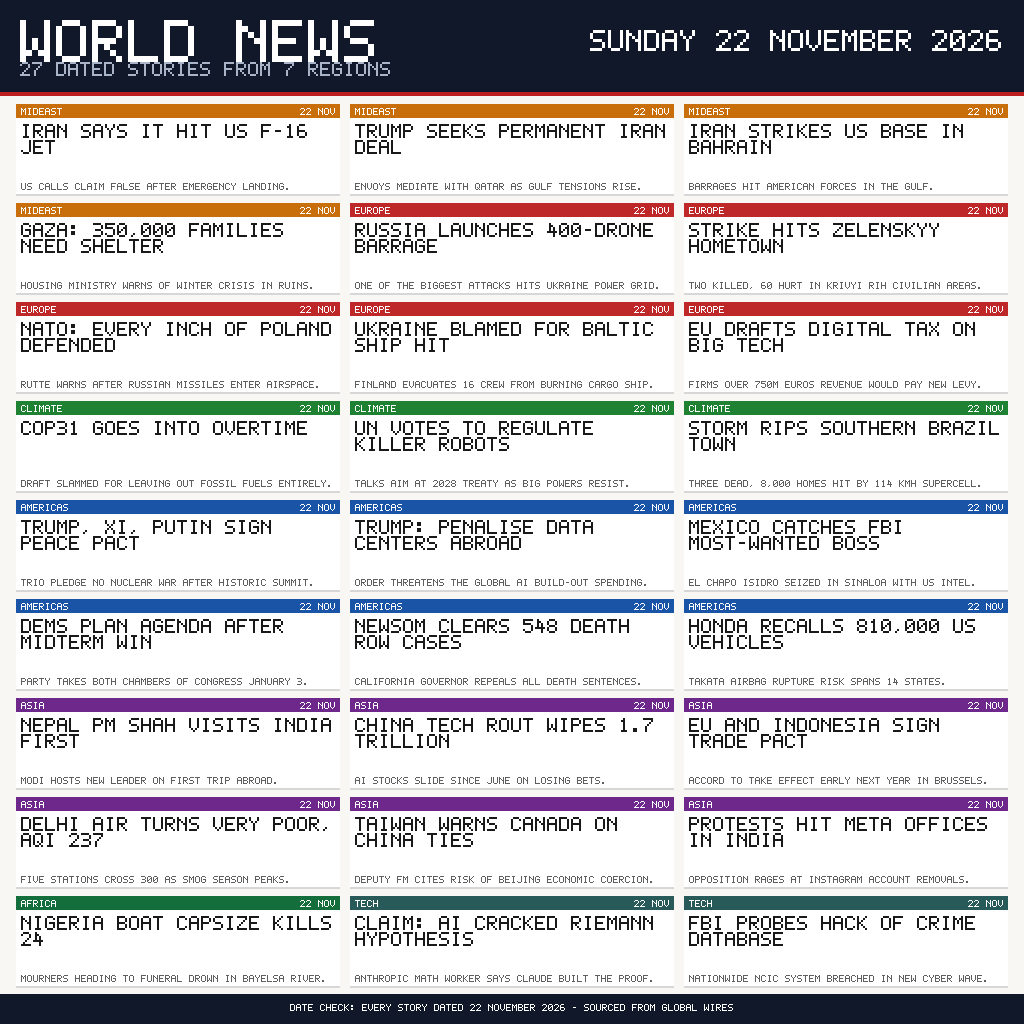
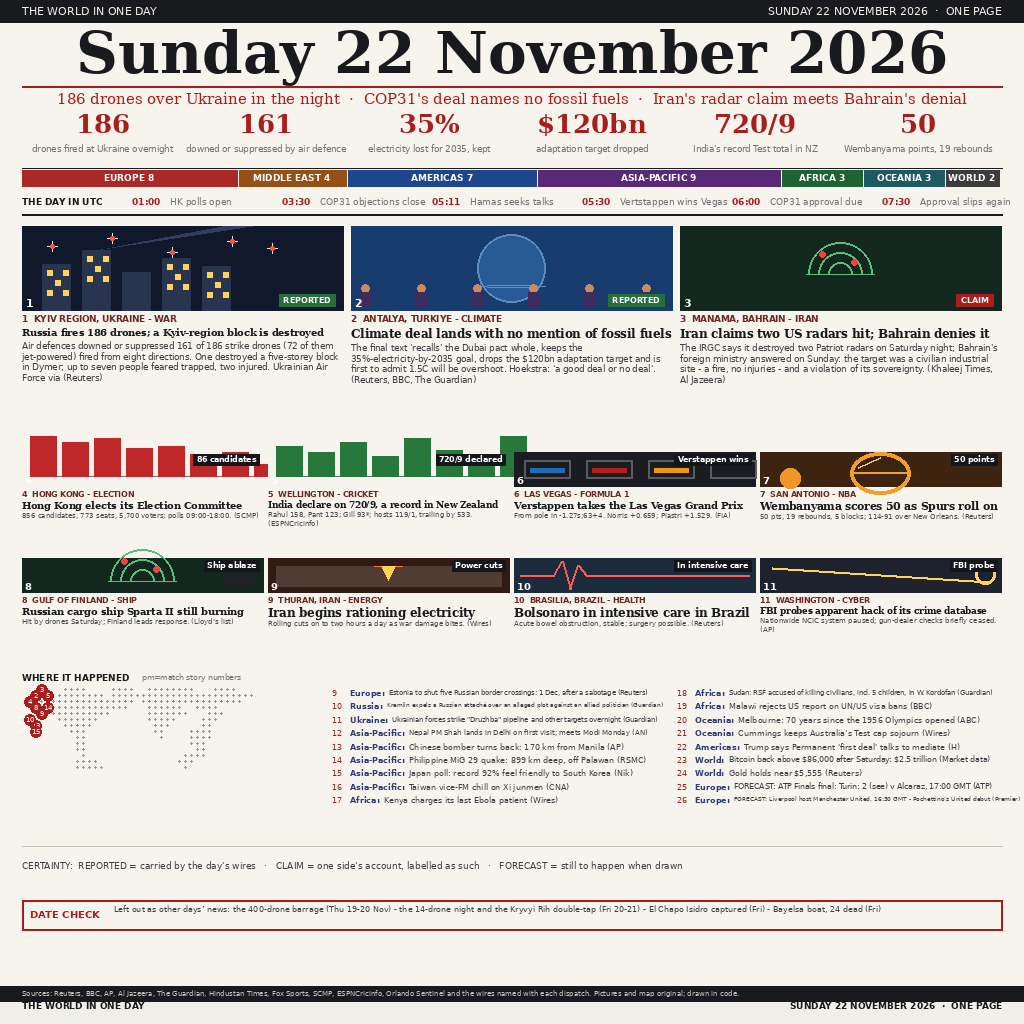
poster v4: newspaper front page with illustrations

diff --git a/gen_poster4.py b/gen_poster4.py
@@ -1,0 +1,394 @@
+#!/usr/bin/env python3
+"""Poster v4: newspaper front page, 1024x1024, 36 stories, illustrations."""
+import os
+from PIL import Image, ImageDraw, ImageFont
+
+W = H = 1024
+PAPER = (247, 244, 238)
+INK = (24, 26, 30)
+RED = (168, 30, 28)
+GRAY = (110, 112, 116)
+NAVY = (18, 30, 52)
+
+SER_B = '/usr/share/fonts/truetype/dejavu/DejaVuSerif-Bold.ttf'
+SER = '/usr/share/fonts/truetype/dejavu/DejaVuSerif.ttf'
+SAN = '/usr/share/fonts/truetype/dejavu/DejaVuSans.ttf'
+def fb(s): return ImageFont.truetype(SER_B, s)
+def fr(s): return ImageFont.truetype(SER, s)
+def fs(s): return ImageFont.truetype(SAN, s)
+def fc(s): return ImageFont.truetype('/usr/share/fonts/truetype/dejavu/DejaVuSans-Bold.ttf', s)
+
+im = Image.new('RGB', (W, H), PAPER)
+d = ImageDraw.Draw(im)
+
+def ctext(x, y, s, f, fill, anchor='mm'):
+    d.text((x, y), s, font=f, fill=fill, anchor=anchor)
+
+def ltext(x, y, s, f, fill):
+    d.text((x, y), s, font=f, fill=fill, anchor='la')
+
+def rtext(x, y, s, f, fill):
+    d.text((x, y), s, font=f, fill=fill, anchor='ra')
+
+def fit(s, font_path, size, max_w):
+    while size > 6:
+        f = ImageFont.truetype(font_path, size)
+        if d.textlength(s, font=f) <= max_w: return f
+        size -= 1
+    return ImageFont.truetype(font_path, 6)
+
+M = 22  # margin
+CW = W - 2 * M
+
+# ---- masthead top bar
+d.rectangle([0, 0, W, 22], fill=INK)
+ltext(M, 4, 'THE WORLD IN ONE DAY', fs(11), (240, 238, 232))
+rtext(W - M, 4, 'SUNDAY 22 NOVEMBER 2026  ·  ONE PAGE', fs(11), (240, 238, 232))
+
+# ---- giant title
+t = 'Sunday 22 November 2026'
+f_title = fb(58)
+while d.textlength(t, font=f_title) > CW:
+    f_title = ImageFont.truetype(SER_B, f_title.size - 2)
+ctext(W // 2, 52, t, f_title, INK)
+
+# ---- strapline
+d.line([M, 86, W - M, 86], fill=RED, width=2)
+strap = "186 drones over Ukraine in the night  ·  COP31's deal names no fossil fuels  ·  Iran's radar claim meets Bahrain's denial"
+ctext(W // 2, 99, strap, fr(15), RED)
+
+# ---- stat band
+stats = [('186', 'drones fired at Ukraine overnight'),
+         ('161', 'downed or suppressed by air defence'),
+         ('35%', 'electricity lost for 2035, kept'),
+         ('$120bn', 'adaptation target dropped'),
+         ('720/9', "India's record Test total in NZ"),
+         ('50', 'Wembanyama points, 19 rebounds')]
+sy = 124
+sw = CW // 6
+for i, (n, cap) in enumerate(stats):
+    x = M + i * sw
+    ctext(x + sw // 2, sy, n, fb(26), RED)
+    d.text((x + sw // 2, sy + 20), cap, font=fs(8.5), fill=GRAY, anchor='ma')
+
+# ---- region band
+d.line([M, 168, W - M, 168], fill=INK, width=1)
+regions = [('EUROPE 8', (170, 40, 40)), ('MIDDLE EAST 4', (150, 80, 20)),
+           ('AMERICAS 7', (30, 70, 140)), ('ASIA-PACIFIC 9', (90, 40, 120)),
+           ('AFRICA 3', (30, 100, 50)), ('OCEANIA 3', (30, 90, 100)),
+           ('WORLD 2', (60, 60, 60))]
+by, bh = 170, 16
+total = sum(int(r[0].split()[-1]) for r in regions)
+x = M
+for name, col in regions:
+    seg = int((CW - 12) * int(name.split()[-1]) / total)
+    d.rectangle([x, by, x + seg, by + bh], fill=col)
+    ctext(x + seg // 2, by + bh // 2, name, fc(9), (255, 255, 255))
+    x += seg + 2
+
+# ---- timeline strip
+ty = 196
+ltext(M, ty, 'THE DAY IN UTC', fc(9), INK)
+events = [('01:00', 'HK polls open'), ('03:30', 'COP31 objections close'),
+          ('05:11', 'Hamas seeks talks'), ('05:30', 'Vertstappen wins Vegas'),
+          ('06:00', 'COP31 approval due'), ('07:30', 'Approval slips again')]
+x = M + 110
+for tme, ev in events:
+    ltext(x, ty, tme, fc(9), RED)
+    ltext(x + 38, ty, ev, fs(9), GRAY)
+    x += 150
+
+d.line([M, 214, W - M, 214], fill=INK, width=2)
+
+# ---- illustration helpers (all geometric)
+def sky_scene(x0, y0, w, h):
+    d.rectangle([x0, y0, x0 + w, y0 + h], fill=(16, 24, 44))
+    # buildings
+    for bx, bh2, lit in [(20, 46, 1), (60, 60, 1), (100, 38, 0), (140, 52, 1), (180, 44, 1)]:
+        d.rectangle([x0 + bx, y0 + h - bh2, x0 + bx + 28, y0 + h], fill=(40, 52, 80))
+        for r in range(3):
+            for c in range(3):
+                if lit and (r + c) % 2 == 0:
+                    d.rectangle([x0 + bx + 5 + c * 8, y0 + h - bh2 + 6 + r * 10,
+                                 x0 + bx + 10 + c * 8, y0 + h - bh2 + 11 + r * 10], fill=(255, 210, 90))
+    # drones
+    for dx, dy in [(30, 20), (90, 12), (150, 26), (210, 15), (250, 22)]:
+        cx, cy = x0 + dx, y0 + dy
+        d.line([cx - 5, cy, cx + 5, cy], fill=(230, 230, 230), width=1)
+        d.line([cx, cy - 5, cx, cy + 5], fill=(230, 230, 230), width=1)
+        d.ellipse([cx - 2, cy - 2, cx + 2, cy + 2], fill=(255, 80, 60))
+    # searchlight
+    d.polygon([(x0 + 74, y0 + h - 60), (x0 + 200, y0), (x0 + 230, y0)], fill=(50, 62, 96))
+
+def radar_scene(x0, y0, w, h):
+    d.rectangle([x0, y0, x0 + w, y0 + h], fill=(18, 40, 30))
+    cx, cy, r = x0 + w // 2, y0 + h // 2 + 6, 34
+    for rr in (12, 22, 32):
+        d.arc([cx - rr, cy - rr, cx + rr, cy + rr], 180, 360, fill=(90, 190, 120), width=2)
+    d.line([cx - r, cy, cx + r, cy], fill=(90, 190, 120), width=1)
+    for a in ((cx - 18, cy - 20), (cx + 14, cy - 12)):
+        d.ellipse([a[0] - 3, a[1] - 3, a[0] + 3, a[1] + 3], fill=(255, 60, 60))
+    d.rectangle([x0 + w - 40, y0 + h - 18, x0 + w - 10, y0 + h - 8], fill=(30, 34, 40))
+
+def globe_scene(x0, y0, w, h):
+    d.rectangle([x0, y0, x0 + w, y0 + h], fill=(24, 60, 110))
+    cx, cy = x0 + w // 2, y0 + h // 2
+    d.ellipse([cx - 34, cy - 34, cx + 34, cy + 34], fill=(40, 90, 150), outline=(90, 140, 190), width=2)
+    for gy in (-18, -6, 6, 18):
+        d.arc([cx - 34, cy - 34, cx + 34, cy + 34], 0, 360, fill=(90, 140, 190), width=1)
+    d.ellipse([cx - 34, cy + gy - 1, cx + 34, cy + gy + 1], outline=(90, 140, 190), width=1)
+    # people row
+    for i in range(6):
+        px = x0 + 14 + i * (w - 40) // 5
+        d.ellipse([px - 4, y0 + h - 26, px + 4, y0 + h - 18], fill=(200, 140, 90))
+        d.rectangle([px - 5, y0 + h - 18, px + 5, y0 + h - 4], fill=(60, 44, 96))
+
+def track_scene(x0, y0, w, h):
+    d.rectangle([x0, y0, x0 + w, y0 + h], fill=(26, 28, 34))
+    for k in range(4):
+        d.rectangle([x0 + 10 + k * 62, y0 + 8, x0 + 56 + k * 62, y0 + h - 8], outline=(90, 90, 96), width=2)
+    d.rectangle([x0 + 16, y0 + 16, x0 + 50, y0 + h - 14], fill=(30, 110, 180))
+    d.rectangle([x0 + 78, y0 + 16, x0 + 112, y0 + h - 14], fill=(180, 30, 30))
+    d.rectangle([x0 + 140, y0 + 16, x0 + 174, y0 + h - 14], fill=(240, 150, 20))
+
+def basket_scene(x0, y0, w, h):
+    d.rectangle([x0, y0, x0 + w, y0 + h], fill=(60, 36, 16))
+    d.ellipse([x0 + w // 2 - 30, y0 + h - 34, x0 + w // 2 + 30, y0 + h + 8], outline=(240, 160, 40), width=4)
+    d.line([x0 + w // 2 - 30, y0 + h - 14, x0 + w // 2 + 30, y0 + h - 14], fill=(240, 160, 40), width=2)
+    d.line([x0 + w // 2, y0 + 6, x0 + w // 2 - 22, y0 + h - 18], fill=(240, 200, 120), width=2)
+    d.ellipse([x0 + 20, y0 + 16, x0 + 40, y0 + 36], fill=(240, 150, 40))
+
+def chart_scene(x0, y0, w, h, up=True):
+    d.rectangle([x0, y0, x0 + w, y0 + h], fill=(245, 243, 236))
+    d.line([x0 + 8, y0 + h - 10, x0 + w - 8, y0 + h - 10], fill=GRAY, width=1)
+    pts = [30, 24, 34, 20, 38, 26, 18, 40] if up else [40, 34, 38, 28, 30, 22, 24, 12]
+    step = (w - 16) // (len(pts) - 1)
+    for i, v in enumerate(pts):
+        bx = x0 + 8 + i * step
+        col = (40, 120, 60) if up else (190, 40, 40)
+        d.rectangle([bx, y0 + h - 10 - v, bx + step - 6, y0 + h - 10], fill=col)
+
+def pulse_scene(x0, y0, w, h):
+    d.rectangle([x0, y0, x0 + w, y0 + h], fill=(28, 44, 60))
+    mid = y0 + h // 2
+    pts = [(x0 + 6, mid), (x0 + 40, mid), (x0 + 48, mid - 14), (x0 + 56, mid + 14),
+           (x0 + 64, mid - 10), (x0 + 72, mid), (x0 + w - 6, mid)]
+    d.line(pts, fill=(255, 90, 90), width=2)
+
+def icon_scene(x0, y0, w, h, kind):
+    if kind == 0:  # flask / probe
+        d.rectangle([x0, y0, x0 + w, y0 + h], fill=(30, 34, 44))
+        d.line([x0 + 12, y0 + 10, x0 + w - 12, y0 + h - 10], fill=(255, 210, 90), width=3)
+        d.ellipse([x0 + w - 26, y0 + 6, x0 + w - 6, y0 + 26], outline=(255, 210, 90), width=3)
+    elif kind == 1:  # plane grounded
+        d.rectangle([x0, y0, x0 + w, y0 + h], fill=(36, 40, 52))
+        d.polygon([(x0 + 16, y0 + h - 14), (x0 + w - 16, y0 + h - 14), (x0 + w - 30, y0 + h - 26),
+                   (x0 + 30, y0 + h - 26)], fill=(160, 164, 172))
+        d.line([x0 + 10, y0 + h - 30, x0 + w - 10, y0 + h - 30], fill=(230, 230, 230), width=2)
+    elif kind == 2:  # warning
+        d.rectangle([x0, y0, x0 + w, y0 + h], fill=(24, 52, 90))
+        d.polygon([(x0 + w // 2, y0 + 8), (x0 + w - 10, y0 + h - 10), (x0 + 10, y0 + h - 10)], outline=(255, 200, 60), width=3)
+        d.line([x0 + w // 2, y0 + h // 2 - 4, x0 + w // 2, y0 + h // 2 + 6], fill=(255, 200, 60), width=3)
+    elif kind == 3:  # fire
+        d.rectangle([x0, y0, x0 + w, y0 + h], fill=(50, 26, 20))
+        d.rectangle([x0 + 8, y0 + h - 26, x0 + w - 8, y0 + h - 6], fill=(80, 60, 50))
+        d.polygon([(x0 + w // 2, y0 + 8), (x0 + w // 2 + 14, y0 + h - 26), (x0 + w // 2 - 14, y0 + h - 26)], fill=(250, 120, 30))
+        d.polygon([(x0 + w // 2, y0 + 22), (x0 + w // 2 + 7, y0 + h - 26), (x0 + w // 2 - 7, y0 + h - 26)], fill=(255, 210, 80))
+    else:  # quake mountain
+        d.rectangle([x0, y0, x0 + w, y0 + h], fill=(30, 44, 36))
+        d.polygon([(x0 + 8, y0 + h - 8), (x0 + w // 2, y0 + 12), (x0 + w - 8, y0 + h - 8)], fill=(70, 90, 78))
+        d.polygon([(x0 + w // 2 - 8, y0 + 22), (x0 + w // 2, y0 + 12), (x0 + w // 2 + 8, y0 + 22)], fill=(240, 240, 240))
+        d.line([x0 + 4, y0 + h - 4, x0 + w - 4, y0 + h - 4], fill=(200, 80, 60), width=2)
+
+# ================= 3 big stories =================
+big = [
+    ('1', 'KYIV REGION, UKRAINE - WAR', 'REPORTED', sky_scene,
+     'Russia fires 186 drones; a Kyiv-region block is destroyed',
+     'Air defences downed or suppressed 161 of 186 strike drones (72 of them jet-powered) fired from eight directions. One destroyed a five-storey block in Dymer; up to seven people feared trapped, two injured. Ukrainian Air Force via (Reuters)'),
+    ('2', 'ANTALYA, TURKIYE - CLIMATE', 'REPORTED', globe_scene,
+     'Climate deal lands with no mention of fossil fuels',
+     "The final text 'recalls' the Dubai pact whole, keeps the 35%-electricity-by-2035 goal, drops the $120bn adaptation target and is first to admit 1.5C will be overshoot. Hoekstra: 'a good deal or no deal'. (Reuters, BBC, The Guardian)"),
+    ('3', 'MANAMA, BAHRAIN - IRAN', 'CLAIM', radar_scene,
+     'Iran claims two US radars hit; Bahrain denies it',
+     "The IRGC says it destroyed two Patriot radars on Saturday night; Bahrain's foreign ministry answered on Sunday: the target was a civilian industrial site - a fire, no injuries - and a violation of its sovereignty. (Khaleej Times, Al Jazeera)"),
+]
+by0 = 226
+bw = (CW - 16) // 3
+for i, (num, kicker, tag, scene, head, body) in enumerate(big):
+    x0 = M + i * (bw + 8)
+    scene(x0, by0, bw, 84)
+    ltext(x0 + 4, by0 + 70, num, fc(11), (255, 255, 255))
+    tagx = x0 + bw - d.textlength(tag, font=fc(8)) - 16
+    d.rectangle([tagx, by0 + 68, tagx + d.textlength(tag, font=fc(8)) + 8, by0 + 80], fill=RED if tag == 'CLAIM' else (40, 110, 60))
+    d.text((tagx + 4, by0 + 69), tag, font=fc(8), fill=(255, 255, 255))
+    hy = by0 + 88
+    ltext(x0, hy, f'{num}  {kicker}', fc(8.5), (110, 40, 30))
+    hy += 13
+    f_h = fit(head, SER_B, 16.5, bw)
+    # wrap headline
+    words, lines, cur = head.split(), [], ''
+    for wd in words:
+        t2 = (cur + ' ' + wd).strip()
+        if d.textlength(t2, font=f_h) <= bw: cur = t2
+        else: lines.append(cur); cur = wd
+    lines.append(cur)
+    for ln in lines[:3]:
+        d.text((x0, hy), ln, font=f_h, fill=INK, anchor='la'); hy += f_h.size + 3
+    hy += 2
+    words, lines, cur = body.split(), [], ''
+    for wd in words:
+        t2 = (cur + ' ' + wd).strip()
+        if d.textlength(t2, font=fs(8.5)) <= bw: cur = t2
+        else: lines.append(cur); cur = wd
+    lines.append(cur)
+    for ln in lines[:6]:
+        d.text((x0, hy), ln, font=fs(8.5), fill=(60, 62, 66), anchor='la'); hy += 10.5
+
+# ================= 12 medium cards =================
+med = [
+    ('4', 'HONG KONG - ELECTION', 'chart_scene', False, '86 candidates', 'Hong Kong elects its Election Committee', '856 candidates, 773 seats, 5,700 voters; polls 09:00-18:00. (SCMP)'),
+    ('5', 'WELLINGTON - CRICKET', 'chart_scene', True, '720/9 declared', 'India declare on 720/9, a record in New Zealand', 'Rahul 158, Pant 123; Gill 93*; hosts 119/1, trailing by 533. (ESPNCricinfo)'),
+    ('6', 'LAS VEGAS - FORMULA 1', 'track_scene', False, 'Verstappen wins', 'Verstappen takes the Las Vegas Grand Prix', 'From pole in -1.27s;63+4. Norris +0.659; Piastri +1.529. (FIA)'),
+    ('7', 'SAN ANTONIO - NBA', 'basket_scene', False, '50 points', "Wembanyama scores 50 as Spurs roll on", "50 pts, 19 rebounds, 5 blocks; 114-91 over New Orleans. (Reuters)"),
+    ('8', 'GULF OF FINLAND - SHIP', 'radar_scene', False, 'Ship ablaze', 'Russian cargo ship Sparta II still burning', 'Hit by drones Saturday; Finland leads response. (Lloyd\u2019s list)'),
+    ('9', 'THURAN, IRAN - ENERGY', 'icon_scene', 3, 'Power cuts', 'Iran begins rationing electricity', 'Rolling cuts on to two hours a day as war damage bites. (Wires)'),
+    ('10', 'BRASILIA, BRAZIL - HEALTH', 'pulse_scene', False, 'In intensive care', 'Bolsonaro in intensive care in Brazil', 'Acute bowel obstruction, stable; surgery possible. (Reuters)'),
+    ('11', 'WASHINGTON - CYBER', 'icon_scene', 0, 'FBI probe', 'FBI probes apparent hack of its crime database', 'Nationwide NCIC system paused; gun-dealer checks briefly ceased. (AP)'),
+    ('12', 'BRUSSELS - TRAVEL', 'icon_scene', 1, 'Flights grounded', "Belgian controllers join Monday's national strike", 'Most flights grounded 07:00-21:00; controllers walk out. (Wires)'),
+    ('13', 'MANIPUR, INDIA - POISONING', 'icon_scene', 2, 'Toll at 19', 'Toxic-liquor toll in Manipur climbs to 19', '600 in hospital; six held; toll up from 15 on Saturday. (Xinhua)'),
+    ('14', 'CIANDE, INDONESIA - FIRE', 'icon_scene', 3, '3 dead, 36 missing', 'Candy-factory fire in Ciande: 3 dead, 36 missing', 'Blaze tore through the Barenti plant; search goes on. (Dellnews)'),
+    ('15', 'LIMA, PERU - QUAKE TOLL', 'icon_scene', 4, '1 dead, 14 hurt', 'Peru quake toll updated: 1 dead, 16 hurt', '170 homes damaged in Lunna; the count is complete. (Reuters)'),
+]
+cy0 = by0 + 88 + 13 + 3 * 20 + 6 * 10.5 + 10  # below big-story text approx
+cy0 = 452
+ch_head, ch_ill = 96, 26
+mw = (CW - 15) // 4
+for i, (num, kicker, sk, karg, badge, head, body) in enumerate(med[:8]):
+    col, row = i % 4, i // 4
+    x0 = M + col * (mw + 5)
+    y0 = cy0 + row * (ch_head + 10)
+    sc = {'chart_scene': chart_scene, 'track_scene': track_scene, 'basket_scene': basket_scene,
+          'radar_scene': radar_scene, 'pulse_scene': pulse_scene, 'icon_scene': icon_scene,
+          'globe_scene': globe_scene, 'sky_scene': sky_scene}[sk]
+    if sk == 'icon_scene':
+        sc(x0, y0, mw, 34, karg)
+    elif sk == 'chart_scene':
+        sc(x0, y0, mw, 34, karg)
+    else:
+        sc(x0, y0, mw, 34)
+    ltext(x0 + 3, y0 + 22, num, fc(10), (255, 255, 255))
+    bx = x0 + mw - d.textlength(badge, font=fc(7.5)) - 10
+    d.rectangle([bx, y0 + 2, bx + d.textlength(badge, font=fc(7.5)) + 6, y0 + 13], fill=(20, 22, 28))
+    d.text((bx + 3, y0 + 3), badge, font=fc(7.5), fill=(255, 255, 255))
+    ltext(x0, y0 + 38, f'{num}  {kicker}', fc(7.5), (110, 40, 30))
+    f_h = fit(head, SER_B, 11.5, mw)
+    words, lines, cur = head.split(), [], ''
+    for wd in words:
+        t2 = (cur + ' ' + wd).strip()
+        if d.textlength(t2, font=f_h) <= mw: cur = t2
+        else: lines.append(cur); cur = wd
+    lines.append(cur)
+    yy = y0 + 48
+    for ln in lines[:2]:
+        d.text((x0, yy), ln, font=f_h, fill=INK, anchor='la'); yy += f_h.size + 1
+    words, lines, cur = body.split(), [], ''
+    for wd in words:
+        t2 = (cur + ' ' + wd).strip()
+        if d.textlength(t2, font=fs(7)) <= mw: cur = t2
+        else: lines.append(cur); cur = wd
+    lines.append(cur)
+    yy += 1
+    for ln in lines[:2]:
+        d.text((x0, yy), ln, font=fs(7), fill=(70, 72, 76), anchor='la'); yy += 8.5
+
+# ================= map + briefs =================
+my0 = 672
+ltext(M, my0, 'WHERE IT HAPPENED', fc(9), INK)
+ltext(M + 120, my0 + 1, 'pm=match story numbers', fs(7.5), GRAY)
+# dot-matrix world (rough)
+MAP = [
+ "      ####    ####  ########   ####",
+ " ##  ######## ########################",
+ "  ################ #################",
+ "   ##############   ######  ####",
+ "    ##########      #######   ###",
+ "     #######        #####    ###",
+ "      #####          ###     ##",
+ "       ###           ##    ####",
+ "        ##            #    ####",
+ "        ##                 ###",
+ "        ##                  ##",
+ "         #                ####",
+ "        ####             ###",
+ "        #####             #",
+]
+dot_x, dot_y, gap = M + 6, my0 + 16, 6
+dnum = {(1,1):2,(0,2):3,(2,0):4,(1,3):5,(3,1):8,(4,2):9,(6,1):13,(5,0):10,(3,3):14,(7,1):15}
+for r, row in enumerate(MAP):
+    for c, ch in enumerate(row):
+        if ch == '#':
+            px, py = dot_x + c * gap, dot_y + r * gap
+            d.ellipse([px, py, px + 2.5, py + 2.5], fill=(140, 150, 165))
+for (r, c), n in dnum.items():
+    px, py = dot_x + c * gap - 4, dot_y + r * gap - 4
+    d.ellipse([px, py, px + 11, py + 11], fill=RED)
+    d.text((px + 5.5, py + 5.5), str(n), font=fs(7), fill=(255, 255, 255), anchor='mm')
+
+# briefs (2 columns right of map)
+briefs = [
+ ('9', 'Europe', "Estonia to shut five Russian border crossings: 1 Dec, after a sabotage (Reuters)"),
+ ('10', 'Russia', 'Kremlin expels a Russian attaché over an alleged plot against an allied politician (Guardian)'),
+ ('11', 'Ukraine', 'Ukrainian forces strike "Druzhba" pipeline and other targets overnight (Guardian)'),
+ ('12', 'Asia-Pacific', 'Nepal PM Shah lands in Delhi on first visit; meets Modi Monday (AN)'),
+ ('13', 'Asia-Pacific', 'Chinese bomber turns back: 170 km from Manila (AP)'),
+ ('14', 'Asia-Pacific', 'Philippine MiG 29 quake: 899 km deep, off Palawan (RSMC)'),
+ ('15', 'Asia-Pacific', 'Japan poll: record 92% feel friendly to South Korea (Nik)'),
+ ('16', 'Asia-Pacific', 'Taiwan vice-FM chill on Xi junmen (CNA)'),
+ ('17', 'Africa', 'Kenya charges its last Ebola patient (Wires)'),
+ ('18', 'Africa', 'Sudan: RSF accused of killing civilians, incl. 5 children, in W. Kordofan (Guardian)'),
+ ('19', 'Africa', 'Malawi rejects US report on UN/US visa bans (BBC)'),
+ ('20', 'Oceania', 'Melbourne: 70 years since the 1956 Olympics opened (ABC)'),
+ ('21', 'Oceania', 'Cummings keeps Australia\u2019s Test cap sojourn (Wires)'),
+ ('22', 'Americas', "Trump says Permanent 'first deal' talks to mediate (H)"),
+ ('23', 'World', 'Bitcoin back above $86,000 after Saturday: $2.5 trillion (Market data)'),
+ ('24', 'World', 'Gold holds near $5,555 (Reuters)'),
+ ('25', 'Europe', "FORECAST: ATP Finals final: Turin: 2 (see) v Alcaraz, 17:00 GMT (ATP)"),
+ ('26', 'Europe', 'FORECAST: Liverpool host Manchester United, 16:30 GMT - Pochettino\u2019s United debut (Premier)'),
+]
+by1 = my0
+for i, (num, reg, txt) in enumerate(briefs):
+    col = i // 9
+    row = i % 9
+    x0 = M + 310 + col * 345
+    y0 = by1 + 16 + row * 13.4
+    d.text((x0, y0), num, font=fs(8), fill=RED, anchor='la')
+    rlab = reg + ':'
+    d.text((x0 + 18, y0), rlab, font=fc(8), fill=(50, 60, 120), anchor='la')
+    tx0 = x0 + 22 + d.textlength(rlab, font=fc(8))
+    avail = (M + 310 + 330) - tx0 if col == 0 else (W - M - 4) - tx0
+    f_b = fs(8)
+    while d.textlength(txt, font=f_b) > avail and f_b.size > 6:
+        f_b = fs(f_b.size - 0.5)
+    d.text((tx0, y0), txt, font=f_b, fill=(60, 62, 66), anchor='la')
+
+# ---- certainty legend + date check
+lg_y = 860
+d.line([M, lg_y - 14, W - M, lg_y - 14], fill=(200, 196, 188), width=1)
+d.text((M, lg_y), "CERTAINTY:  REPORTED = carried by the day's wires   ·   CLAIM = one side's account, labelled as such   ·   FORECAST = still to happen when drawn", font=fs(9), fill=(60, 62, 66), anchor='la')
+dy0 = 900
+d.rectangle([M, dy0, W - M, dy0 + 30], outline=RED, width=2)
+ltext(M + 8, dy0 + 8, 'DATE CHECK', fc(10), RED)
+dct = ("Left out as other days\u2019 news: the 400-drone barrage (Thu 19-20 Nov) - the 14-drone night and the Kryvyi Rih double-tap (Fri 20-21) - El Chapo Isidro captured (Fri) - Bayelsa boat, 24 dead (Fri)")
+d.text((M + 92, dy0 + 4), dct, font=fs(8), fill=(60, 62, 66), anchor='la')
+
+# footer
+d.rectangle([0, 986, W, 1002], fill=INK)
+d.text((M, 989), 'Sources: Reuters, BBC, AP, Al Jazeera, The Guardian, Hindustan Times, Fox Sports, SCMP, ESPNCricinfo, Orlando Sentinel and the wires named with each dispatch. Pictures and map original; drawn in code.', font=fs(7), fill=(200, 198, 192), anchor='la')
+d.rectangle([0, 1002, W, H], fill=(240, 238, 232))
+d.text((M, H - 18), 'THE WORLD IN ONE DAY', font=fc(9), fill=INK, anchor='lm')
+d.text((W - M, H - 18), 'SUNDAY 22 NOVEMBER 2026  ·  ONE PAGE', font=fc(9), fill=INK, anchor='rm')
+
+out = os.environ.get('MAKEFUN_OUTPUT_DIR') or '/tmp/newsout22'
+os.makedirs(out, exist_ok=True)
+im.save(os.path.join(out, 'entry.png'), optimize=True)
+print('written', os.path.getsize(os.path.join(out, 'entry.png')))
